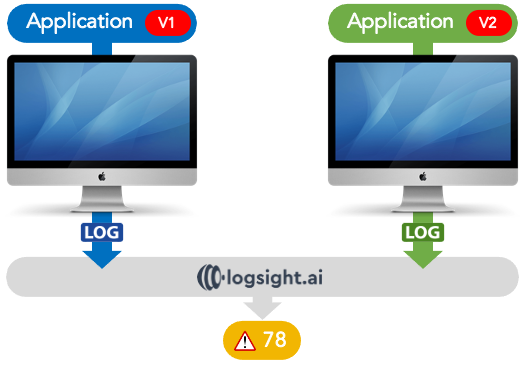
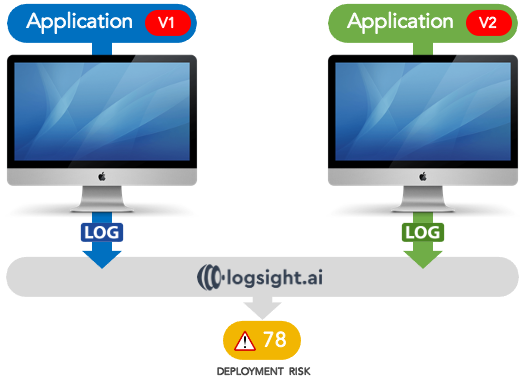
chg: updated conceptual figure

diff --git a/README.rst b/README.rst
@@ -100,6 +100,7 @@ Once you have an account with `Logsight.ai`__, you can execute our `Hello World`
 
 The risk of deployment is 1. Thus, it is safe.
 
+
 Installation
 ------------
 
@@ -194,8 +195,6 @@ you can pass the same values as options as part of any logsight command.
 Examples
 --------
 
-Single Commands
-===============
 The following list provides examples of useful commands:
 
 .. code-block:: console
@@ -204,8 +203,8 @@ The following list provides examples of useful commands:
     +----------+--------------------------------------+---------------------------+
     | OPTION   | VALUE                                | SOURCE                    |
     +----------+--------------------------------------+---------------------------+
-    | EMAIL    | john.miller@gmail.com                | Option                    |
-    | PASSWORD | sawhUz-hanpe4-zaqtyr                 | Env                       |
+    | EMAIL    | john.miller@gmail.com                | Environment               |
+    | PASSWORD | sawhUz-hanpe4-zaqtyr                 | Environment               |
     | APP_ID   | 14082ca2-3e35-4a76-a37c-0d1a48931a19 | /Users/jmiller/.logsight  |
     | DEBUG    | True                                 | /Users/jmiller/.logsight  |
     | JSON     | False                                | /Users/jmiller/.logsight  |
